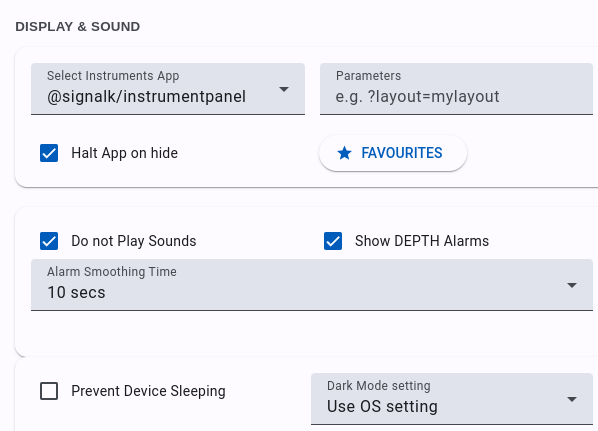
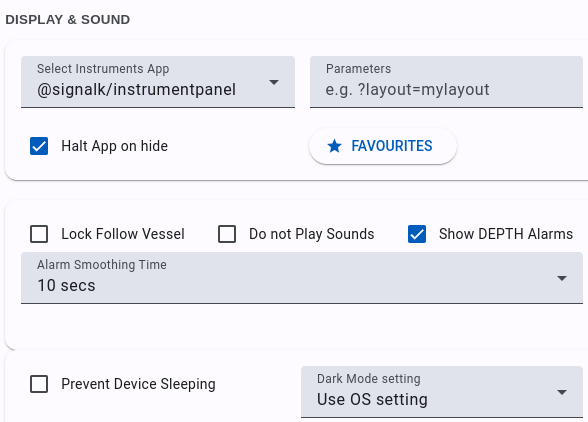
laylines

diff --git a/src/app/modules/map/fb-map.component.ts b/src/app/modules/map/fb-map.component.ts
@@ -30,7 +30,13 @@ import {
 import { FreeboardOpenlayersModule } from 'src/app/modules/map/ol';
 import { PipesModule } from 'src/app/lib/pipes';
 
-import { computeDestinationPoint, getGreatCircleBearing } from 'geolib';
+import {
+  computeDestinationPoint,
+  getGreatCircleBearing,
+  getDistanceFromLine,
+  getDistance,
+  getPreciseDistance
+} from 'geolib';
 import { toLonLat } from 'ol/proj';
 import { Style, Stroke, Fill } from 'ol/style';
 import { Collection, Feature } from 'ol';
@@ -709,8 +715,10 @@ export class FBMapComponent implements OnInit, OnDestroy {
   }
 
   public onMapPointerDrag() {
-    this.fbMap.movingMap = false;
-    this.exitedMovingMap.emit(true);
+    if (!this.app.config.map.lockMoveMap) {
+      this.fbMap.movingMap = false;
+      this.exitedMovingMap.emit(true);
+    }
   }
 
   // toggle display of resource feature
@@ -1215,106 +1223,118 @@ export class FBMapComponent implements OnInit, OnDestroy {
       typeof this.app.data.vessels.active.heading === 'number'
     ) {
       const twd_deg = Convert.radiansToDegrees(
-        this.app.data.vessels.self.wind.twd
+        this.app.data.vessels.self.wind.direction
       );
+
+      const twd_inv = Angle.add(twd_deg, 180);
+
       const destUpwind =
         Math.abs(
           Angle.difference(this.app.data.navData.bearing.value, twd_deg)
         ) < 90;
+
       const ba_deg = Convert.radiansToDegrees(
         this.app.data.vessels.self.performance.beatAngle ?? Math.PI / 4
       );
-      const destInTarget =
-        Math.abs(
-          Angle.difference(this.app.data.navData.bearing.value, twd_deg)
-        ) < ba_deg;
+
+      const ga_deg = Convert.radiansToDegrees(
+        this.app.data.vessels.self.performance.gybeAngle ?? Math.PI / 6
+      );
+
+      const destInTarget = destUpwind
+        ? Math.abs(
+            Angle.difference(this.app.data.navData.bearing.value, twd_deg)
+          ) < ba_deg
+        : Math.abs(
+            Angle.difference(this.app.data.navData.bearing.value, twd_deg)
+          ) > ga_deg;
+
       const dtg =
         this.app.config.units.distance === 'm'
           ? this.app.data.navData.dtg * 1000
           : Convert.nauticalMilesToKm(this.app.data.navData.dtg * 1000);
 
-      if (destInTarget) {
-        const bta = Angle.add(twd_deg, 90); // tack angle = 90
-
-        const hbd_rad = Convert.degreesToRadians(
-          Angle.difference(twd_deg, this.app.data.navData.bearing.value)
-        );
-        const dist1 = Math.sin(hbd_rad) * dtg;
-        const dist2 = Math.cos(hbd_rad) * dtg;
-        const pt1 = computeDestinationPoint(
-          this.app.data.vessels.active.position,
-          dist1,
-          bta
-        );
-        const pt2 = computeDestinationPoint(
-          this.app.data.vessels.active.position,
-          dist2,
-          twd_deg
-        );
-        const p1a = [
-          this.app.data.vessels.active.position,
-          [pt1.longitude, pt1.latitude]
-        ];
-        const p1b = [
-          [pt1.longitude, pt1.latitude],
-          this.dfeat.navData.position
-        ];
-        const l1 = hbd_rad < 0 ? [p1a, p1b] : [p1b, p1a];
-
-        const p2a = [
-          [pt2.longitude, pt2.latitude],
-          this.dfeat.navData.position
-        ];
-        const p2b = [
-          this.app.data.vessels.active.position,
-          [pt2.longitude, pt2.latitude]
-        ];
-        const l2 = hbd_rad < 0 ? [p2a, p2b] : [p2b, p2a];
-
-        vl.laylines = {
-          port: hbd_rad < 0 ? l2 : l1,
-          starboard: hbd_rad < 0 ? l1 : l2
-        };
-      }
-      // target angle lines
-      if (destUpwind && destInTarget) {
+      // mark laylines
+      let markLines = [];
+      if (destUpwind) {
         const bapt1 = computeDestinationPoint(
-          this.app.data.vessels.active.position,
+          this.dfeat.navData.position,
           dtg,
-          Angle.add(twd_deg, ba_deg)
+          Angle.add(twd_inv, ba_deg)
         );
         const bapt2 = computeDestinationPoint(
-          this.app.data.vessels.active.position,
+          this.dfeat.navData.position,
           dtg,
-          Angle.add(twd_deg, 0 - ba_deg)
+          Angle.add(twd_inv, 0 - ba_deg)
         );
-        vl.targetAngle = [
+
+        markLines = [
           [bapt1.longitude, bapt1.latitude],
-          this.app.data.vessels.active.position,
+          this.dfeat.navData.position,
           [bapt2.longitude, bapt2.latitude]
         ];
-      } else if (
-        !destUpwind &&
-        typeof this.app.data.vessels.self.performance.gybeAngle === 'number'
-      ) {
-        const ga_deg = Convert.radiansToDegrees(
-          this.app.data.vessels.self.performance.gybeAngle
-        );
+      } else {
         const gapt1 = computeDestinationPoint(
-          this.app.data.vessels.active.position,
+          this.dfeat.navData.position,
           dtg,
-          Angle.add(this.app.data.navData.bearing.value, ga_deg)
+          Angle.add(twd_deg, ga_deg)
         );
         const gapt2 = computeDestinationPoint(
-          this.app.data.vessels.active.position,
+          this.dfeat.navData.position,
           dtg,
-          Angle.add(this.app.data.navData.bearing.value, 0 - ga_deg)
+          Angle.add(twd_deg, 0 - ga_deg)
         );
-        vl.targetAngle = [
+
+        markLines = [
           [gapt1.longitude, gapt1.latitude],
-          this.app.data.vessels.active.position,
+          this.dfeat.navData.position,
           [gapt2.longitude, gapt2.latitude]
         ];
+      }
+
+      vl.targetAngle = markLines;
+
+      // vessel laylines
+      if (destInTarget && destUpwind) {
+        // Vector angles
+        const hbd_deg = Angle.difference(
+          twd_deg,
+          this.app.data.navData.bearing.value
+        );
+        const C_RAD = Convert.degreesToRadians(ba_deg - hbd_deg);
+        const B_RAD = Convert.degreesToRadians(ba_deg + hbd_deg);
+        const A_RAD = Math.PI - (B_RAD + C_RAD);
+        // Vector lengths
+        const b = (dtg * Math.sin(B_RAD)) / Math.sin(A_RAD);
+        const c = (dtg * Math.sin(C_RAD)) / Math.sin(A_RAD);
+        // intersection points
+        const ipts = computeDestinationPoint(
+          this.app.data.vessels.active.position,
+          b,
+          Angle.add(twd_deg, ba_deg)
+        );
+        const iptp = computeDestinationPoint(
+          this.app.data.vessels.active.position,
+          c,
+          Angle.add(twd_deg, 0 - ba_deg)
+        );
+
+        vl.laylines = {
+          port: [
+            [
+              [iptp.longitude, iptp.latitude],
+              this.app.data.vessels.active.position
+            ],
+            [
+              [ipts.longitude, ipts.latitude],
+              this.app.data.vessels.active.position
+            ]
+          ],
+          starboard: [
+            [[ipts.longitude, ipts.latitude], markLines[1]],
+            [markLines[1], [iptp.longitude, iptp.latitude]]
+          ]
+        };
       }
     }
 

diff --git a/src/app/app.settings.ts b/src/app/app.settings.ts
@@ -53,31 +53,16 @@ export function cleanConfig(
     settings.selections.vessel.aisCogLine = 10;
   }
 
-  // changeover 2.7 - for removal
-  // eslint-disable-next-line @typescript-eslint/no-explicit-any
-  if (typeof (settings as any).vesselTrail !== 'undefined') {
-    // eslint-disable-next-line @typescript-eslint/no-explicit-any
-    settings.selections.vessel.trail = (settings as any).vesselTrail;
-    // eslint-disable-next-line @typescript-eslint/no-explicit-any
-    delete (settings as any).vesselTrail;
-  }
-  // changeover 2.7 - for removal
-  // eslint-disable-next-line @typescript-eslint/no-explicit-any
-  if (typeof (settings as any).vesselWindVectors !== 'undefined') {
-    // eslint-disable-next-line @typescript-eslint/no-explicit-any
-    settings.selections.vessel.windVectors = (
-      settings as any
-    ).vesselWindVectors;
-    // eslint-disable-next-line @typescript-eslint/no-explicit-any
-    delete (settings as any).vesselWindVectors;
-  }
-
   if (typeof settings.map.limitZoom === 'undefined') {
     settings.map.limitZoom = false;
   }
 
   if (typeof settings.map.invertColor === 'undefined') {
     settings.map.invertColor = false;
+  }
+
+  if (typeof settings.map.lockMoveMap === 'undefined') {
+    settings.map.lockMoveMap = false;
   }
 
   if (typeof settings.anchorRadius === 'undefined') {
@@ -98,15 +83,6 @@ export function cleanConfig(
 
   if (typeof settings.selections.labelsMinZoom === 'undefined') {
     settings.selections.labelsMinZoom = 10;
-  }
-
-  // changeover 2.7 - for removal
-  // eslint-disable-next-line @typescript-eslint/no-explicit-any
-  if (typeof (settings as any).aisShowTrack !== 'undefined') {
-    // eslint-disable-next-line @typescript-eslint/no-explicit-any
-    settings.selections.aisShowTrack = (settings as any).aisShowTrack;
-    // eslint-disable-next-line @typescript-eslint/no-explicit-any
-    delete (settings as any).aisShowTrack;
   }
 
   if (typeof settings.toolBarButtons === 'undefined') {
@@ -298,6 +274,7 @@ export const DefaultConfig: IAppConfig = {
     center: [0, 0],
     rotation: 0,
     moveMap: false,
+    lockMoveMap: true,
     northUp: true,
     animate: false,
     limitZoom: false,
@@ -424,6 +401,7 @@ export interface IAppConfig {
     center: Position;
     rotation: number;
     moveMap: boolean;
+    lockMoveMap: boolean;
     northUp: boolean;
     animate: boolean;
     limitZoom: boolean;

diff --git a/src/app/modules/map/fb-map.component.html b/src/app/modules/map/fb-map.component.html
@@ -533,24 +533,24 @@
   >
   </fb-xte-path>
   } @if(dfeat.navData.position && app.config.selections.vessel.laylines) {
-  <fb-layline
-    [lines]="vesselLines.laylines"
-    [laylineStyles]="featureStyles.layline"
-    [position]="app.data.vessels.active.position"
-    [twd]="app.data.vessels.self.wind.twd"
-    [mapZoom]="fbMap.zoomLevel"
-    [zIndex]="212"
-  >
-  </fb-layline>
   <fb-target-angle
     [line]="vesselLines.targetAngle"
     [lineStyle]="featureStyles.targetAngle"
     [position]="app.data.vessels.active.position"
-    [twd]="app.data.vessels.self.wind.twd"
+    [twd]="app.data.vessels.self.wind.direction"
     [mapZoom]="fbMap.zoomLevel"
     [zIndex]="212"
   >
   </fb-target-angle>
+  <fb-layline
+    [lines]="vesselLines.laylines"
+    [laylineStyles]="featureStyles.layline"
+    [position]="app.data.vessels.active.position"
+    [twd]="app.data.vessels.self.wind.direction"
+    [mapZoom]="fbMap.zoomLevel"
+    [zIndex]="212"
+  >
+  </fb-layline>
   } @if(dfeat.navData.position && app.data.anchor.raised) {
   <fb-bearing-line
     [marker]="dfeat.navData.position"

diff --git a/src/assets/help/index.html b/src/assets/help/index.html
@@ -1771,7 +1771,7 @@
 
           <b>DISPLAY:</b><br />
           This section provides choices about how information is displayed.<br />
-          <img src="./img/settings_display.png" style="width: 300px" alt="" />
+          <img src="./img/settings_display.png" style="width: 350px" alt="" />
           <ul>
             <li>
               <b>Instrument Panel App</b>: Select from a list of installed
@@ -1800,6 +1800,10 @@
               <i>Favourite</i>.<br />
               These selected Web App can be "switched in" for display in the
               <i>Instrument Panel</i>.
+            </li>
+            <li>
+              <b>Lock Follow Vessel</b>: Check this box to remain in "Follow
+              Vessel" mode when map is panned / moved.
             </li>
             <li>
               <b>Do not Play Sounds</b>: Check this box if you do not want any

diff --git a/src/app/modules/settings/components/settings-dialog.html b/src/app/modules/settings/components/settings-dialog.html
@@ -131,6 +131,17 @@
               <div class="setting-card-row" style="padding-bottom: 10px">
                 <div class="setting-card-row-item">
                   <mat-checkbox
+                    #lockMoveMap
+                    [(ngModel)]="facade.settings.map.lockMoveMap"
+                    (change)="onFormChange($event, lockMoveMap)"
+                    matTooltip="Do not exit follow vessel when map is panned."
+                    label="after"
+                  >
+                    Lock Follow Vessel
+                  </mat-checkbox>
+                </div>
+                <div class="setting-card-row-item">
+                  <mat-checkbox
                     #muteAllSound
                     [(ngModel)]="facade.settings.muteSound"
                     (change)="onFormChange($event, muteAllSound)"

diff --git a/src/app/modules/skstream/skstream.facade.ts b/src/app/modules/skstream/skstream.facade.ts
@@ -360,6 +360,7 @@ export class SKStreamFacade {
   private processVessel(d: SKVessel) {
     d.cog = this.app.useMagnetic ? d.cogMagnetic : d.cogTrue;
     d.heading = this.app.useMagnetic ? d.headingMagnetic : d.headingTrue;
+    d.wind.direction = this.app.useMagnetic ? d.wind.mwd : d.wind.twd;
   }
 
   // ** process course data

diff --git a/CHANGELOG.md b/CHANGELOG.md
@@ -6,6 +6,8 @@
 - **Added**: Setting to mute all sounds regardless of notification ALARM_METHOD value.(#178)
 - **Updated**: Show total length of Route when editing. (#171)
 - **Added**: Toggle charts on/of by clicking chart boundaries on map.
+- **Added**: Lock in `Follow Vessel` setting to remain in this mode when map is panned. (#185)
+- **Fixed**: Not rendering laylines when preferred path is `environment.wind.directionMagnetic`. (#184)
 
 ### v2.11.1
 
